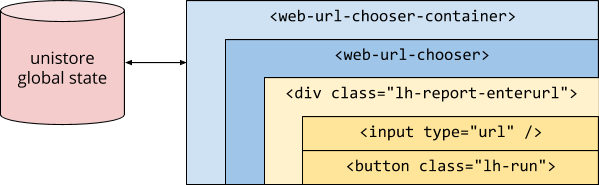
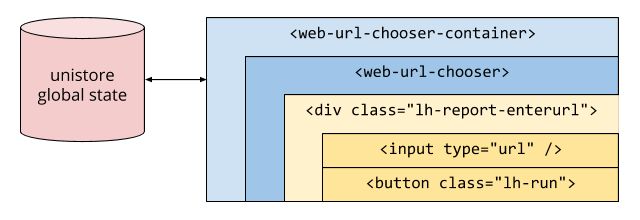
revert screenshot, add padding to image

diff --git a/src/site/content/en/engblog/build-process/index.md b/src/site/content/en/engblog/build-process/index.md
@@ -161,7 +161,7 @@ Our Web Components most commonly utilize the [Container Component](https://flavi
 Each `-container` element connects to our global state (provided by [unistore](https://github.com/developit/unistore)), and then renders a visual element, which in turn goes on to render actual DOM nodes that have styling or other built-in functionality.
 
 <figure class="w-figure">
-  <img class="w-screenshot" src="./state-and-elements.png" alt="A diagram that shows the relationship between global state and HTML elements that use it.">
+  <img src="./state-and-elements.png" alt="A diagram that shows the relationship between global state and HTML elements that use it.">
   <figcaption class="w-figcaption">Global state and a Web Component</figcaption>
 </figure>
 
